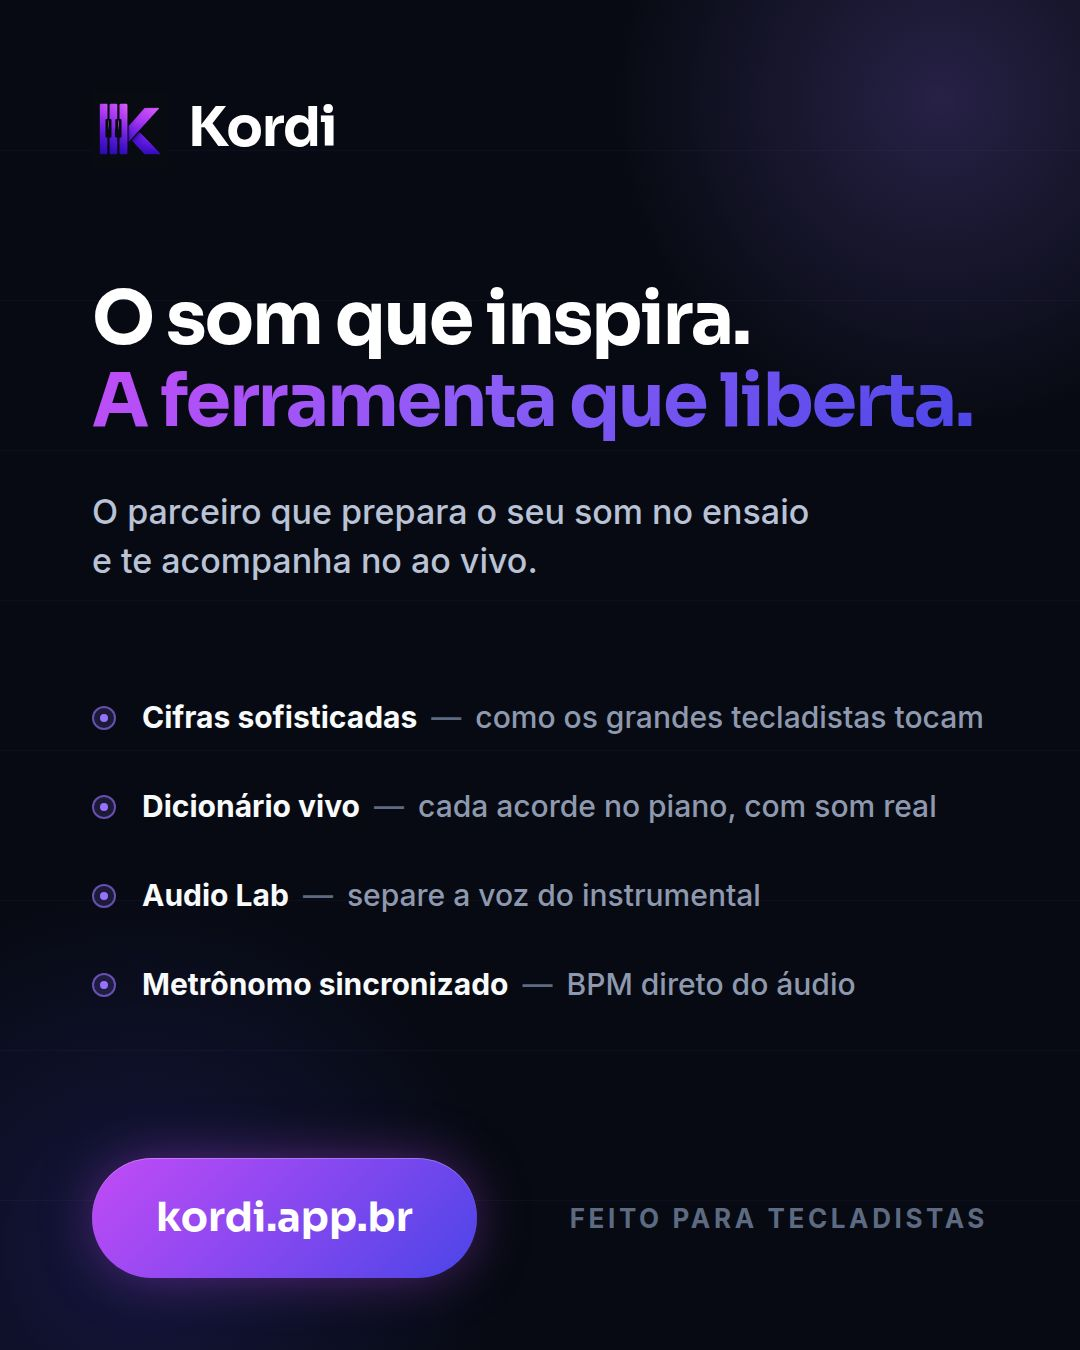
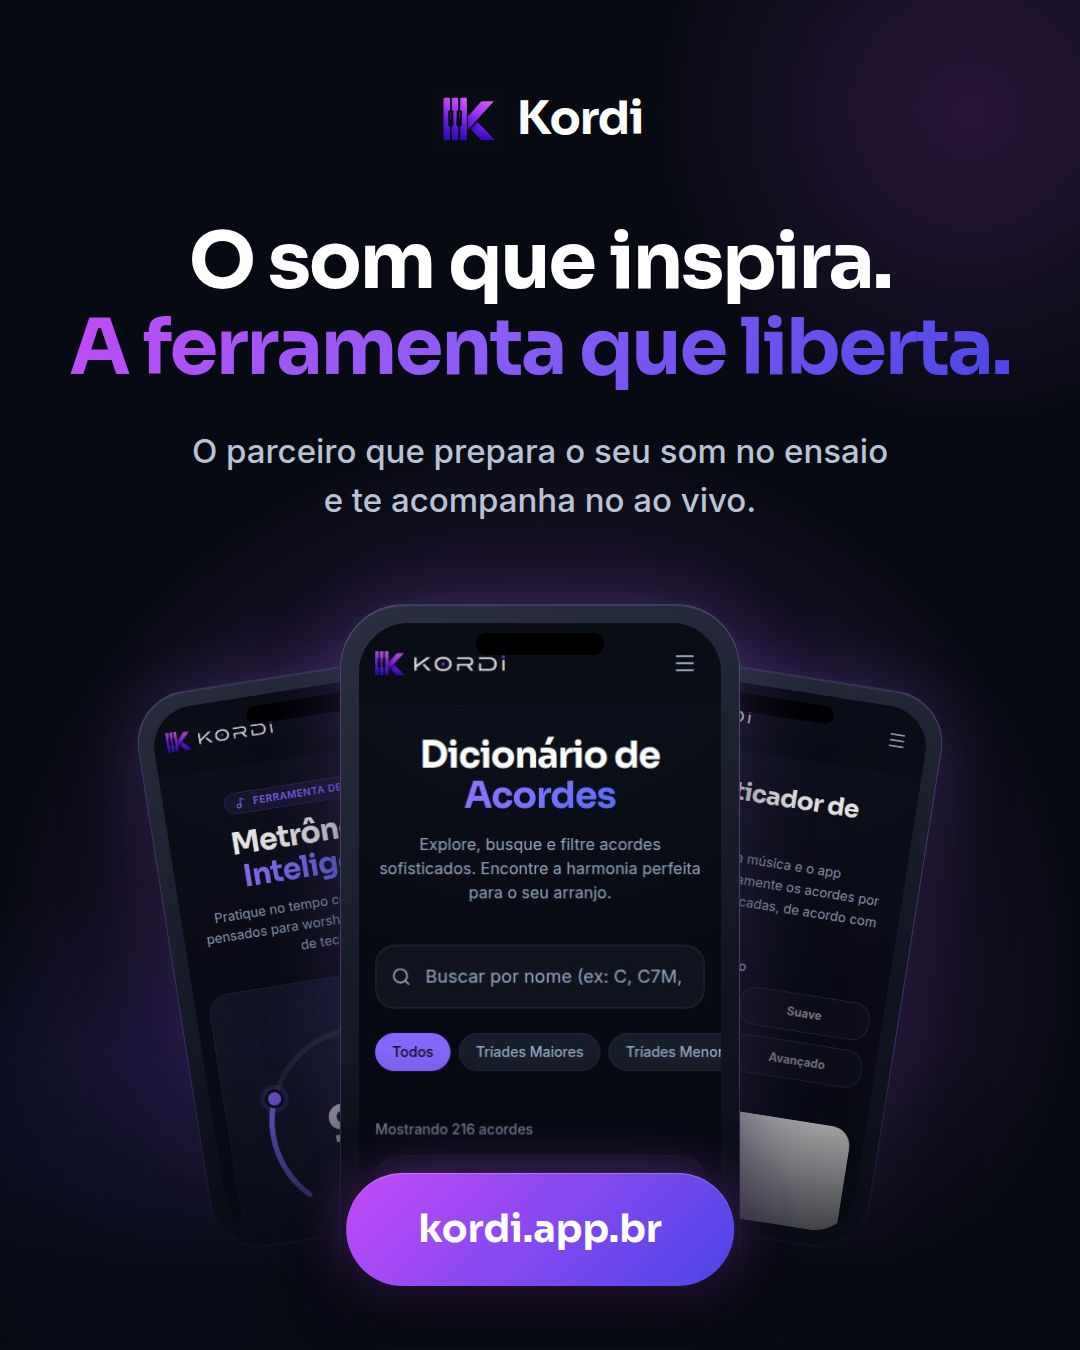
Update visual design to showcase app features with mockups
Refactor Insta-art page to include a PhoneMockup component and adjust layout styles for Arte5.

Replit-Commit-Author: Agent
Replit-Commit-Session-Id: 16b5ff2b-ab39-4357-a676-93280229349d
Replit-Commit-Checkpoint-Type: full_checkpoint
Replit-Commit-Event-Id: b2be886b-4bd6-47b6-a902-0d46542f09ca
Replit-Commit-Screenshot-Url: https://storage.googleapis.com/screenshot-production-us-central1/7ad8bb15-f6c8-4716-98be-747323897506/16b5ff2b-ab39-4357-a676-93280229349d/XHynvDL
Replit-Helium-Checkpoint-Created: true

diff --git a/artifacts/acordes/src/pages/insta-art.tsx b/artifacts/acordes/src/pages/insta-art.tsx
@@ -20,43 +20,84 @@ function Frame({ children }: { children: React.ReactNode }) {
 
 // ─── Arte 5: Chamada geral ───────────────────────────────────────────────────
 
-function Arte5() {
-  const modules = [
-    { label: "Cifras sofisticadas", desc: "como os grandes tecladistas tocam" },
-    { label: "Dicionário vivo", desc: "cada acorde no piano, com som real" },
-    { label: "Audio Lab", desc: "separe a voz do instrumental" },
-    { label: "Metrônomo sincronizado", desc: "BPM direto do áudio" },
-  ];
+function PhoneMockup({
+  src,
+  width,
+  style,
+}: {
+  src: string;
+  width: number;
+  style?: React.CSSProperties;
+}) {
+  const bezel = Math.round(width * 0.045);
+  return (
+    <div
+      style={{
+        width,
+        borderRadius: width * 0.16,
+        padding: bezel,
+        background: "linear-gradient(160deg, #2A3042 0%, #101420 60%)",
+        border: "1px solid rgba(150,115,255,0.35)",
+        boxShadow:
+          "0 60px 120px -30px rgba(0,0,0,0.85), 0 0 90px -20px rgba(150,115,255,0.45), inset 0 1px 0 rgba(255,255,255,0.12)",
+        ...style,
+      }}
+    >
+      <div
+        style={{
+          borderRadius: width * 0.125,
+          overflow: "hidden",
+          background: "#070A12",
+          position: "relative",
+        }}
+      >
+        <img src={src} alt="" style={{ width: "100%", display: "block" }} draggable={false} />
+        {/* Notch */}
+        <div
+          style={{
+            position: "absolute", top: 10, left: "50%", transform: "translateX(-50%)",
+            width: width * 0.32, height: width * 0.055, borderRadius: 999, background: "#000",
+          }}
+        />
+      </div>
+    </div>
+  );
+}
 
+function Arte5() {
   return (
     <Frame>
-      {/* Glows de fundo */}
+      {/* Glow central atrás do mockup */}
       <div
         className="absolute pointer-events-none"
         style={{
-          top: -260, right: -220, width: 720, height: 720, borderRadius: "50%",
-          background: "radial-gradient(circle, rgba(150,115,255,0.22) 0%, rgba(150,115,255,0) 65%)",
+          top: 420, left: "50%", transform: "translateX(-50%)",
+          width: 1100, height: 1100, borderRadius: "50%",
+          background:
+            "radial-gradient(circle, rgba(150,115,255,0.30) 0%, rgba(194,75,247,0.14) 40%, rgba(7,10,18,0) 70%)",
+        }}
+      />
+      {/* Glows laterais da marca */}
+      <div
+        className="absolute pointer-events-none"
+        style={{
+          top: -240, right: -240, width: 700, height: 700, borderRadius: "50%",
+          background: "radial-gradient(circle, rgba(194,75,247,0.18) 0%, rgba(194,75,247,0) 65%)",
         }}
       />
       <div
         className="absolute pointer-events-none"
         style={{
-          bottom: -300, left: -260, width: 800, height: 800, borderRadius: "50%",
-          background: "radial-gradient(circle, rgba(75,69,232,0.20) 0%, rgba(75,69,232,0) 65%)",
+          bottom: -320, left: -260, width: 820, height: 820, borderRadius: "50%",
+          background: "radial-gradient(circle, rgba(75,69,232,0.22) 0%, rgba(75,69,232,0) 65%)",
         }}
       />
-      {/* Linhas de "pauta" sutis */}
-      <div className="absolute inset-x-0 pointer-events-none" style={{ top: 0, bottom: 0, opacity: 0.05 }}>
-        {[...Array(9)].map((_, i) => (
-          <div key={i} className="absolute inset-x-0" style={{ top: 150 * (i + 1), height: 1, background: "#9673FF" }} />
-        ))}
-      </div>
 
-      <div className="relative flex flex-col h-full" style={{ padding: "88px 92px 72px" }}>
+      <div className="relative flex flex-col items-center h-full text-center" style={{ padding: "84px 80px 0" }}>
         {/* Marca */}
-        <div className="flex items-center gap-5">
-          <img src={`${basePath}/logo.png`} alt="" style={{ height: 76 }} draggable={false} />
-          <span className="font-display font-black tracking-tight" style={{ fontSize: 54 }}>
+        <div className="flex items-center gap-4">
+          <img src={`${basePath}/logo.png`} alt="" style={{ height: 64 }} draggable={false} />
+          <span className="font-display font-black tracking-tight" style={{ fontSize: 46 }}>
             Kordi
           </span>
         </div>
@@ -64,56 +105,65 @@ function Arte5() {
         {/* Headline */}
         <h1
           className="font-display font-black tracking-tight"
-          style={{ fontSize: 73, lineHeight: 1.12, marginTop: 110, letterSpacing: "-0.03em", whiteSpace: "nowrap" }}
+          style={{ fontSize: 78, lineHeight: 1.1, marginTop: 66, letterSpacing: "-0.03em", whiteSpace: "nowrap" }}
         >
           O som que inspira.
           <br />
           <span className="text-gradient-kordi">A ferramenta que liberta.</span>
         </h1>
 
-        <p style={{ fontSize: 34, lineHeight: 1.45, marginTop: 44, color: "#B9C2D6", maxWidth: 820, fontWeight: 500 }}>
+        {/* Subhead */}
+        <p style={{ fontSize: 33, lineHeight: 1.5, marginTop: 36, color: "#B9C2D6", fontWeight: 500 }}>
           O parceiro que prepara o seu som no ensaio
           <br />e te acompanha no ao vivo.
         </p>
 
-        {/* Módulos */}
-        <div className="flex flex-col" style={{ gap: 44, marginTop: 110 }}>
-          {modules.map((m) => (
-            <div key={m.label} className="flex items-center" style={{ gap: 26 }}>
-              <div
-                className="shrink-0 flex items-center justify-center"
-                style={{
-                  width: 24, height: 24, borderRadius: "50%",
-                  background: "rgba(150,115,255,0.16)",
-                  border: "2px solid rgba(150,115,255,0.6)",
-                }}
-              >
-                <div style={{ width: 8, height: 8, borderRadius: "50%", background: "#9673FF" }} />
-              </div>
-              <p style={{ fontSize: 30, fontWeight: 500, color: "#8E99AF", whiteSpace: "nowrap" }}>
-                <span style={{ fontWeight: 800, color: "#F8FAFC" }}>{m.label}</span>
-                <span style={{ color: "#5E6A82", margin: "0 14px" }}>—</span>
-                {m.desc}
-              </p>
-            </div>
-          ))}
+        {/* Mockups do app — celular central grande + dois de apoio */}
+        <div className="relative w-full flex justify-center" style={{ marginTop: 78, flex: 1 }}>
+          <PhoneMockup
+            src={`${basePath}/screenshots/screenshot-3-metronomo.jpg`}
+            width={330}
+            style={{
+              position: "absolute", left: 92, top: 66,
+              transform: "rotate(-9deg)",
+              opacity: 0.9,
+            }}
+          />
+          <PhoneMockup
+            src={`${basePath}/screenshots/screenshot-4-sofisticador.jpg`}
+            width={330}
+            style={{
+              position: "absolute", right: 92, top: 66,
+              transform: "rotate(9deg)",
+              opacity: 0.9,
+            }}
+          />
+          <PhoneMockup
+            src={`${basePath}/screenshots/screenshot-2-dicionario.jpg`}
+            width={400}
+            style={{ position: "relative", zIndex: 10 }}
+          />
         </div>
 
-        {/* CTA */}
-        <div className="mt-auto flex items-center justify-between">
-          <div
-            className="bg-gradient-cta inline-flex items-center justify-center font-display font-black"
-            style={{
-              fontSize: 40, padding: "30px 64px", borderRadius: 999,
-              boxShadow: "0 0 60px -12px rgba(194,75,247,0.55), inset 0 1px 0 rgba(255,255,255,0.25)",
-            }}
-          >
-            kordi.app.br
-          </div>
-          <p style={{ fontSize: 26, fontWeight: 700, color: "#5E6A82", letterSpacing: "0.14em", textTransform: "uppercase" }}>
-            Feito para tecladistas
-          </p>
+        {/* CTA fixo sobre a base */}
+        <div
+          className="absolute bg-gradient-cta inline-flex items-center justify-center font-display font-black"
+          style={{
+            bottom: 64, left: "50%", transform: "translateX(-50%)", zIndex: 20,
+            fontSize: 38, padding: "28px 72px", borderRadius: 999, whiteSpace: "nowrap",
+            boxShadow: "0 24px 70px -12px rgba(0,0,0,0.7), 0 0 60px -10px rgba(194,75,247,0.6), inset 0 1px 0 rgba(255,255,255,0.25)",
+          }}
+        >
+          kordi.app.br
         </div>
+        {/* Fade da base para o CTA respirar */}
+        <div
+          className="absolute inset-x-0 pointer-events-none"
+          style={{
+            bottom: 0, height: 300, zIndex: 15,
+            background: "linear-gradient(180deg, rgba(7,10,18,0) 0%, rgba(7,10,18,0.92) 75%)",
+          }}
+        />
       </div>
     </Frame>
   );
